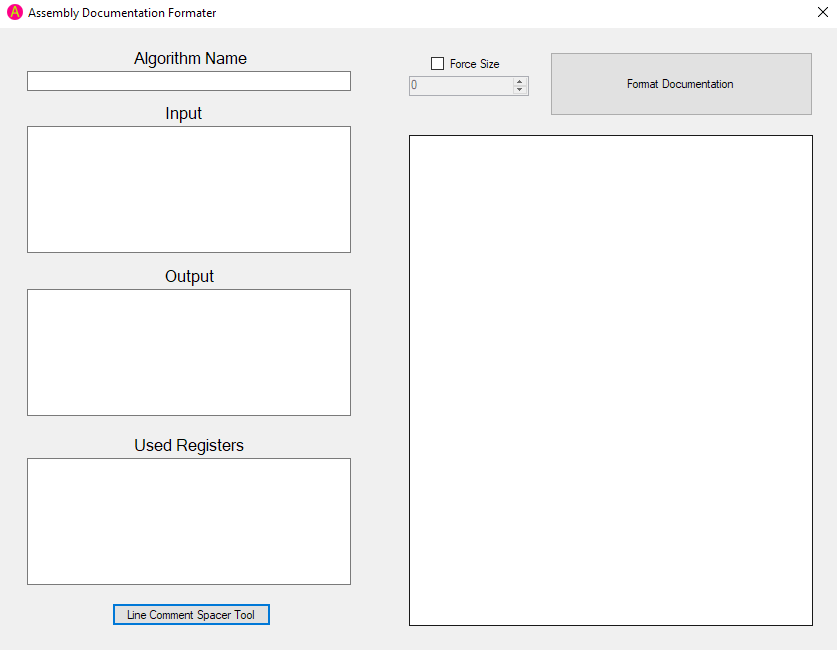
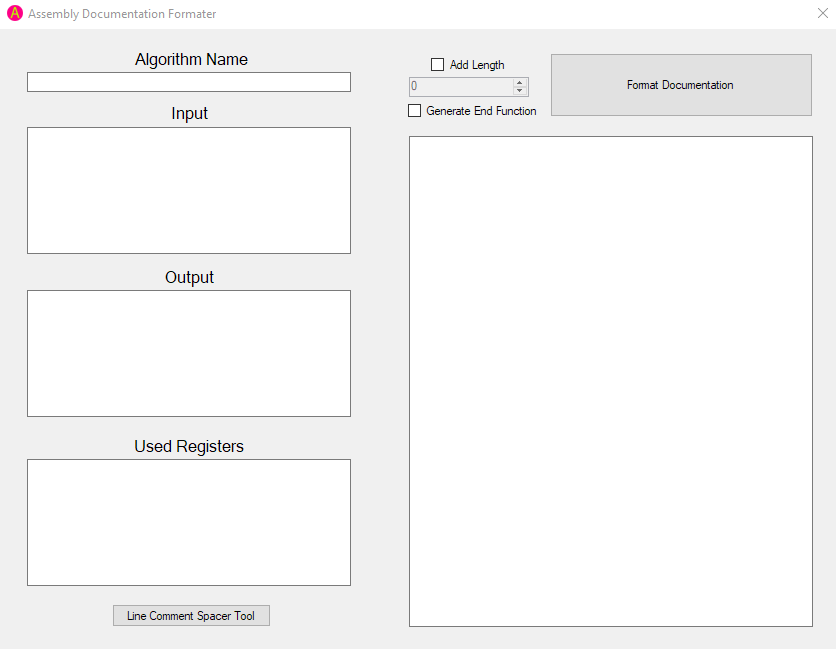
Updated README, added photo, ready for release 1.0.1.1

diff --git a/AssemblySourceCreator/LineCommentFixerForm.Designer.cs b/AssemblySourceCreator/LineCommentFixerForm.Designer.cs
@@ -69,11 +69,11 @@
             // 
             this.customSpacing.AutoSize = true;
             this.customSpacing.Enabled = false;
-            this.customSpacing.Location = new System.Drawing.Point(75, 60);
+            this.customSpacing.Location = new System.Drawing.Point(83, 60);
             this.customSpacing.Name = "customSpacing";
-            this.customSpacing.Size = new System.Drawing.Size(103, 17);
+            this.customSpacing.Size = new System.Drawing.Size(81, 17);
             this.customSpacing.TabIndex = 2;
-            this.customSpacing.Text = "Custom Spacing";
+            this.customSpacing.Text = "Add Length";
             this.customSpacing.UseVisualStyleBackColor = true;
             this.customSpacing.CheckedChanged += new System.EventHandler(this.customSpacing_CheckedChanged);
             // 
@@ -119,7 +119,7 @@
             this.MaximizeBox = false;
             this.MinimizeBox = false;
             this.Name = "LineCommentFixerForm";
-            this.Text = "Line Comment Fixer";
+            this.Text = "Line Comment Spacer Tool";
             ((System.ComponentModel.ISupportInitialize)(this.amountSpacing)).EndInit();
             this.ResumeLayout(false);
             this.PerformLayout();

diff --git a/AssemblySourceCreator/MainForm.Designer.cs b/AssemblySourceCreator/MainForm.Designer.cs
@@ -50,7 +50,7 @@
             // 
             this.TitleLabel.AutoSize = true;
             this.TitleLabel.Font = new System.Drawing.Font("Microsoft Sans Serif", 12F);
-            this.TitleLabel.Location = new System.Drawing.Point(131, 20);
+            this.TitleLabel.Location = new System.Drawing.Point(132, 20);
             this.TitleLabel.Name = "TitleLabel";
             this.TitleLabel.Size = new System.Drawing.Size(122, 20);
             this.TitleLabel.TabIndex = 0;
@@ -95,7 +95,7 @@
             // 
             this.label1.AutoSize = true;
             this.label1.Font = new System.Drawing.Font("Microsoft Sans Serif", 12F);
-            this.label1.Location = new System.Drawing.Point(162, 75);
+            this.label1.Location = new System.Drawing.Point(168, 74);
             this.label1.Name = "label1";
             this.label1.Size = new System.Drawing.Size(46, 20);
             this.label1.TabIndex = 10;

diff --git a/README.md b/README.md
@@ -1,5 +1,5 @@
 # Assembly Documentation Formater
-Makes nice looking assembly documentation and formats comments to look neater!
+Makes nice looking assembly documentation and formats comments in code to look neater!
 
 ## Example:
 <pre>
@@ -20,5 +20,16 @@ Makes nice looking assembly documentation and formats comments to look neater!
 # $t1, used in math                        #
 ############################################
 </pre>
+<pre>
+############################################
+#            End Binary Search             #
+############################################
+</pre>
 
+## Options:
+* Add Length: Allows you to add more spaces if you want them to fit a certain size globally
+* Generate End Function: Generate end documentation for after the code
+
+## Images:
 ![Assembly Documntation Formater](https://github.com/Pocable/AssemblyDocumentationFormater/blob/master/assemblyphoto.PNG?raw=true)
+![Line Comment Spacer Tool](https://github.com/Pocable/AssemblyDocumentationFormater/blob/master/linecommentspacer?raw=true)
